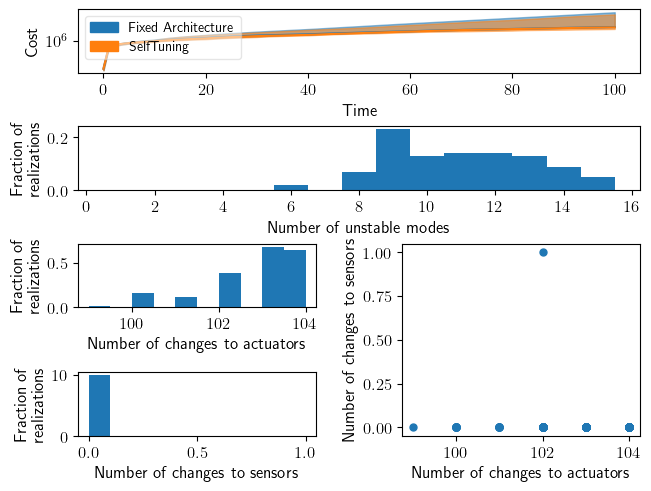
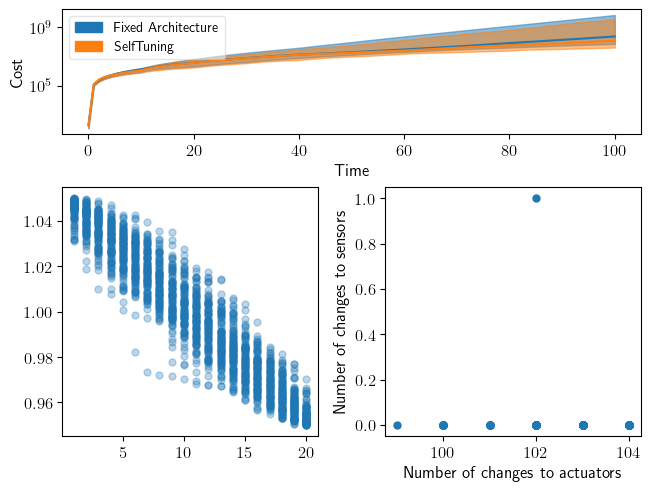
Code + Viz dump

diff --git a/greedy_architecture_combined.py b/greedy_architecture_combined.py
@@ -1449,14 +1449,14 @@ def statistics_plot(test_model, n_samples=100):
     unstable_modes = []
     B_changes = []
     C_changes = []
+    eig_vals = []
     cost_min_fix = np.inf * np.ones(S.simulation_parameters['T_sim'] + 1)
     cost_min_tuning = dc(cost_min_fix)
     cost_max_fix = np.zeros(S.simulation_parameters['T_sim'] + 1)
     cost_max_tuning = dc(cost_max_fix)
 
-    rand_model = np.random.choice(range(1, 101), 1)
-    cost_fix = []
-    cost_tuning = []
+    rand_model = np.random.choice(range(1, n_samples+1), 1)
+    cost_fix_model, cost_tuning_model, eig_vals_model = [], [] ,[]
 
     for model_id in tqdm(range(1, n_samples+1), ncols=100):
         S_i, S_fixed_i, S_tuning_i = data_reading_statistics(S.model_name, model_id)
@@ -1475,10 +1475,14 @@ def statistics_plot(test_model, n_samples=100):
             cumulative_cost_tuning.append(cumulative_cost_tuning[-1] + S_tuning_i.trajectory['cost']['true'][j])
 
         if model_id == rand_model:
-            cost_fix = cumulative_cost_fixed
-            cost_tuning = cumulative_cost_tuning
+            net_size = S_i.dynamics['number_of_nodes']
+            cost_fix_model = cumulative_cost_fixed
+            cost_tuning_model = cumulative_cost_tuning
+            eig_vals_model = -np.sort(-np.abs(S_i.dynamics['ol_eig']))
+            print(eig_vals_model)
 
         unstable_modes.append(S_i.dynamics['n_unstable'])
+        eig_vals = eig_vals + [i for i in -np.sort(-np.abs(S_i.dynamics['ol_eig']))]
         B_changes.append(S_tuning_i.architecture['B']['change_count'])
         C_changes.append(S_tuning_i.architecture['C']['change_count'])
         # print(model_id, ' : ', S_i.dynamics['n_unstable'])
@@ -1492,38 +1496,52 @@ def statistics_plot(test_model, n_samples=100):
     # print('Max fix: ', cost_max_fix)
     # print('Max tuning: ', cost_max_tuning)
 
+    # print('1: ', np.shape(eig_vals))
+    # print(eig_vals)
+
     fig = plt.figure(constrained_layout=True)
-    grid = fig.add_gridspec(4, 2)
+    grid = fig.add_gridspec(3, 2)
 
-    unstable_plot = fig.add_subplot(grid[1, :])
     cost_plot = fig.add_subplot(grid[0, :])
-    B_arch_plot = fig.add_subplot(grid[2, 0])
-    C_arch_plot = fig.add_subplot(grid[3, 0])
-    arch_scatter_plot = fig.add_subplot(grid[2:4, 1])
+    # unstable_plot = fig.add_subplot(grid[1:, 0])
+    eig_val_plot = fig.add_subplot(grid[1:, 0])
+    # B_arch_plot = fig.add_subplot(grid[2, 0])
+    # C_arch_plot = fig.add_subplot(grid[3, 0])
+    arch_scatter_plot = fig.add_subplot(grid[1:, 1])
 
-    unstable_plot.hist(unstable_modes, bins=range(0, max(unstable_modes) + 1), align='right', density=True)
+    # unstable_plot.hist(unstable_modes, bins=range(0, max(unstable_modes) + 1), align='right', density=True)
+    # eig_val_plot.hist(eig_vals, align='right', density=True)
+    # eig_val_plot.boxplot(eig_vals)
+    # eig_val_plot.scatter(np.ones(len(eig_vals_model)), eig_vals_model)
+    # eig_val_plot.set_xticks([])
+    eig_val_plot.scatter(np.tile(np.linspace(1, net_size, net_size), n_samples), eig_vals, alpha=0.3, c='tab:blue')
+    eig_val_plot.scatter(np.linspace(1, net_size, net_size), eig_vals_model, marker='x', c='black')
+
     cost_plot.fill_between(range(0, len(cost_min_fix)), cost_min_fix, cost_max_fix, color=plt_map['fixed']['c'], alpha=plt_map['fixed']['alpha'])
     cost_plot.fill_between(range(0, len(cost_min_tuning)), cost_min_tuning, cost_max_tuning, color=plt_map['tuning']['c'], alpha=plt_map['tuning']['alpha'])
-    cost_plot.plot(range(0, len(cost_fix)), cost_fix, color=plt_map['fixed']['c'])
-    cost_plot.plot(range(0, len(cost_tuning)), cost_tuning, color=plt_map['tuning']['c'])
+    cost_plot.plot(range(0, len(cost_fix_model)), cost_fix_model, color=plt_map['fixed']['c'])
+    cost_plot.plot(range(0, len(cost_tuning_model)), cost_tuning_model, color=plt_map['tuning']['c'])
 
-    B_arch_plot.hist(B_changes, density=True)
-    C_arch_plot.hist(C_changes, density=True)
+    # B_arch_plot.hist(B_changes, density=True)
+    # C_arch_plot.hist(C_changes, density=True)
     arch_scatter_plot.scatter(B_changes, C_changes)
 
-    unstable_plot.xaxis.set_major_locator(ticker.MaxNLocator(integer=True))
-    unstable_plot.set_xlabel('Number of unstable modes')
-    unstable_plot.set_ylabel('Fraction of\nrealizations')
+    eig_val_plot.set_xlabel('Mode ' + r'$i$')
+    eig_val_plot.set_ylabe(r'$|\lambda(A)_i|$')
+
+    # unstable_plot.xaxis.set_major_locator(ticker.MaxNLocator(integer=True))
+    # unstable_plot.set_xlabel('Number of unstable modes')
+    # unstable_plot.set_ylabel('Fraction of\nrealizations')
     cost_plot.set_yscale('log')
     # cost_plot.ticklabel_format(axis='y', style='sci', scilimits=(0, 0))
     cost_plot.set_xlabel('Time')
     cost_plot.set_ylabel('Cost')
     cost_plot.legend(handles=[patches.Patch(color=plt_map['fixed']['c'], label='Fixed Architecture'), patches.Patch(color=plt_map['tuning']['c'], label='SelfTuning')], loc='upper left')
     # arch_plot.legend(['B', 'C'])
-    B_arch_plot.set_xlabel('Number of changes to actuators')
-    B_arch_plot.set_ylabel('Fraction of\nrealizations')
-    C_arch_plot.set_xlabel('Number of changes to sensors')
-    C_arch_plot.set_ylabel('Fraction of\nrealizations')
+    # B_arch_plot.set_xlabel('Number of changes to actuators')
+    # B_arch_plot.set_ylabel('Fraction of\nrealizations')
+    # C_arch_plot.set_xlabel('Number of changes to sensors')
+    # C_arch_plot.set_ylabel('Fraction of\nrealizations')
     arch_scatter_plot.set_xlabel('Number of changes to actuators')
     arch_scatter_plot.set_ylabel('Number of changes to sensors')
 

diff --git a/casetest_greedy_architecture_combined_multistep.py b/casetest_greedy_architecture_combined_multistep.py
@@ -3,17 +3,17 @@ from copy import deepcopy as dc
 
 if __name__ == "__main__":
 
-    n = 30
+    n = 20
     # rho = 7
     rho = None
     Tp = 10
-    n_arch = 3
+    n_arch = 2
 
     # test_model = 'combined'
     test_model = None
 
-    # second_order = True
-    second_order = False
+    second_order = True
+    # second_order = False
 
     model = gac.model_namer(n, rho, Tp, n_arch, test_model, second_order)
     S = gac.data_reading_gen_model(model)

diff --git a/casetest_model_gen.py b/casetest_model_gen.py
@@ -6,17 +6,17 @@ if __name__ == "__main__":
 
     print('Generating Model')
 
-    n = 30
+    n = 20
     Tp = 10
-    n_arch = 3
+    n_arch = 2
     n_arch_B = n_arch
     n_arch_C = n_arch
 
     network_model = 'rand_eval'
     rho = None
     p = 0.01
-    # second_order = True
-    second_order = False
+    second_order = True
+    # second_order = False
 
     # test_model = 'combined'  #  'process', 'sensor', 'combined', None
     test_model = None

diff --git a/casetest_statistics_multi.py b/casetest_statistics_multi.py
@@ -10,7 +10,7 @@ import numpy as np
 
 
 def sys_gen(optimize_initial_architecture=True):
-    n = 30
+    n = 20
     Tp = 10
     n_arch = 3
     # n_arch_B = n_arch
@@ -25,7 +25,7 @@ def sys_gen(optimize_initial_architecture=True):
     network_model = 'rand_eval'
     # rho = 4
     rho = None
-    p = 0.1
+    p = 0.05
 
     disturbance_step = 10
     disturbance_number = int(np.floor(n / 2))

diff --git a/casetest_plot.py b/casetest_plot.py
@@ -2,11 +2,11 @@ import greedy_architecture_combined as gac
 
 if __name__ == "__main__":
 
-    n = 30
+    n = 20
     # rho = 7
     rho = None
-    Tp = 20
-    n_arch = 5
+    Tp = 10
+    n_arch = 2
 
     # test_model = 'combined'
     test_model = None
